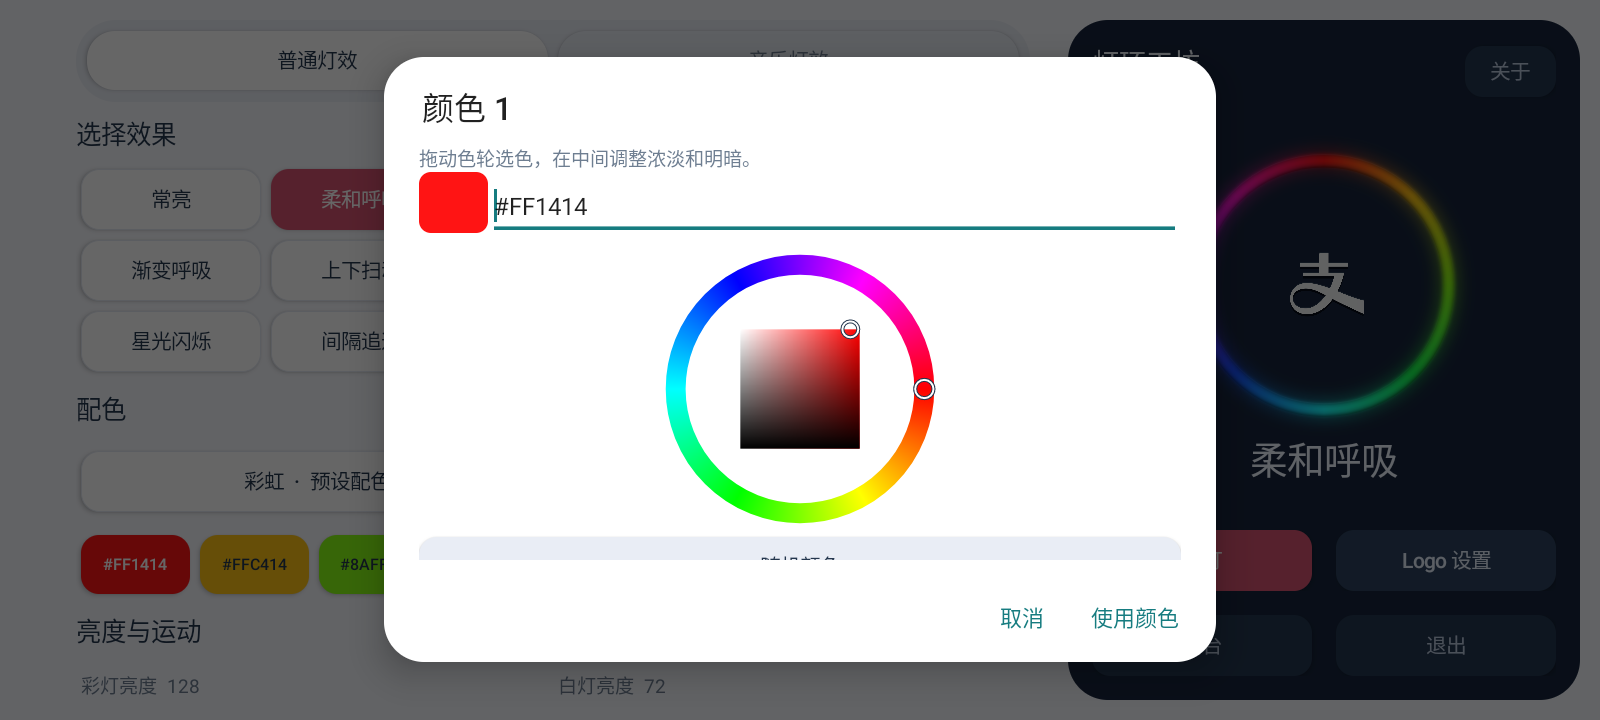
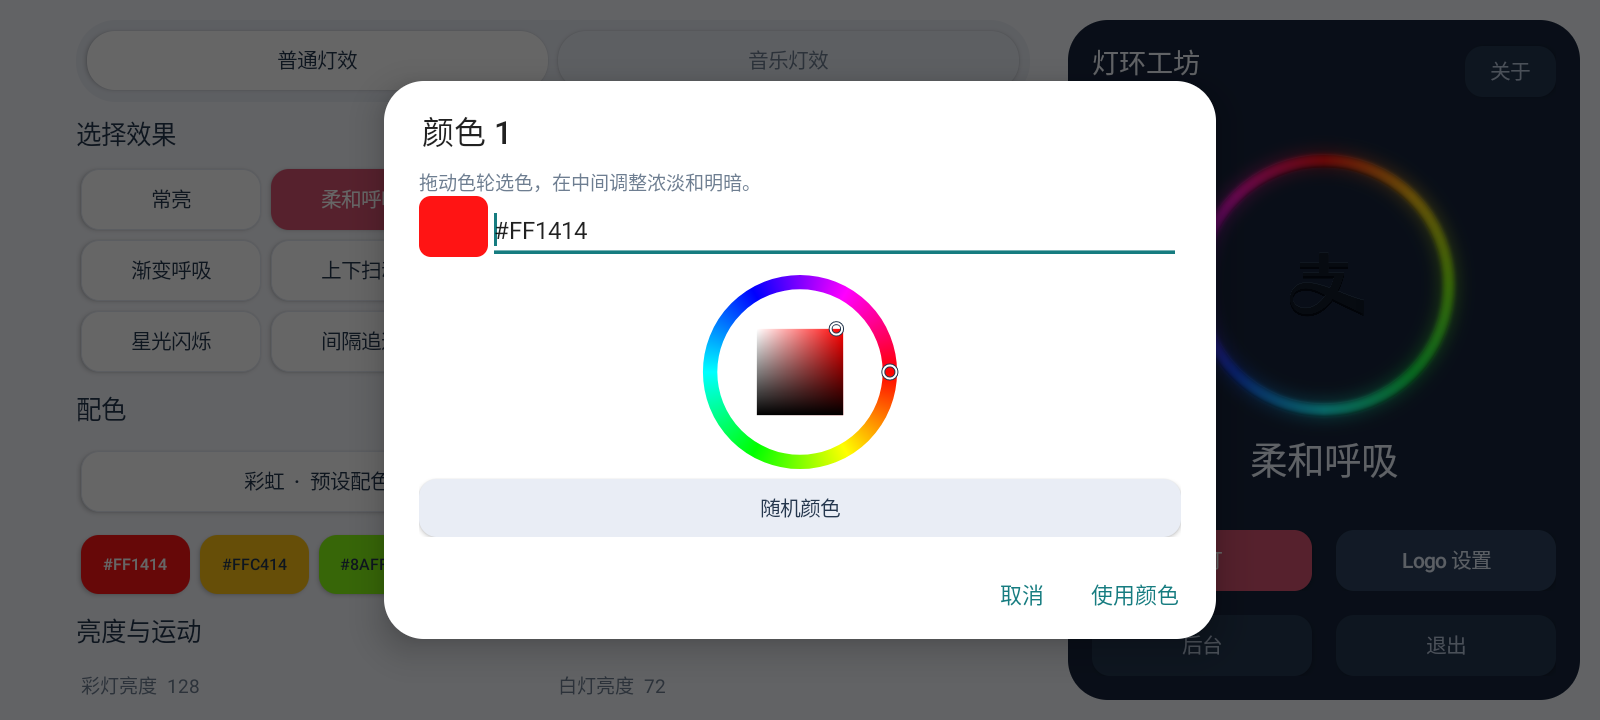
Fit random color control inside the picker dialog

Changed region(s): [[0.2188, 0.0611, 0.7812, 0.7333], [0.2188, 0.7944, 0.7812, 0.9167], [0.8125, 0.3361, 0.875, 0.4583]]

diff --git a/src/com/codex/ringlab/MainActivity.java b/src/com/codex/ringlab/MainActivity.java
@@ -67,7 +67,7 @@ public class MainActivity extends Activity {
     private void renderColorSlots(){if(colorSlots==null)return;colorSlots.removeAllViews();int[] colors=Patterns.colorStops(cfg);for(int n=0;n<colors.length;n++){final int index=n;int color=colors[n];double luma=Color.red(color)*.2126+Color.green(color)*.7152+Color.blue(color)*.0722;Button swatch=button(Patterns.hex(color),color,luma>155?INK:Color.WHITE,()->colorDialog(index));swatch.setTextSize(10);swatch.setContentDescription("颜色 "+(n+1)+"，点击选色");LinearLayout.LayoutParams layout=colors.length<4?new LinearLayout.LayoutParams(dp(105),dp(37)):cell(37);layout.setMargins(dp(3),dp(6),dp(3),dp(3));colorSlots.addView(swatch,layout);}if(colors.length<4){TextView hint=text("点色块选色",11,MUTED);hint.setGravity(Gravity.CENTER_VERTICAL);hint.setPadding(dp(8),0,0,0);colorSlots.addView(hint,new LinearLayout.LayoutParams(0,dp(48),1));}}
     private void resizeColors(int count){if(cfg.palette==13){int[] before=Patterns.parseColors(cfg.colors);if(count>before.length){int[] next=new int[count];for(int n=0;n<count;n++)next[n]=n<before.length?before[n]:Color.HSVToColor(new float[]{(float)(n*360.0/count),.9f,1});cfg.colors=Patterns.encode(next);}}cfg.colorCount=count;}
     private void colorDialog(int index){int[] stops=Patterns.colorStops(cfg);if(index>=stops.length)return;LinearLayout content=dialogContent();content.addView(text("拖动色轮选色，在中间调整浓淡和明暗。",12,MUTED));LinearLayout entry=new LinearLayout(this);View sample=new View(this);sample.setBackground(bg(stops[index],12));entry.addView(sample,new LinearLayout.LayoutParams(dp(43),dp(38)));EditText hex=new EditText(this);hex.setSingleLine(true);hex.setText(Patterns.hex(stops[index]));hex.setTextSize(15);entry.addView(hex,new LinearLayout.LayoutParams(0,dp(43),1));content.addView(entry);final ColorPickerView[] picker=new ColorPickerView[1];final boolean[] editing={false};
-        picker[0]=new ColorPickerView(this,stops[index],color->{editing[0]=true;hex.setText(Patterns.hex(color));sample.setBackground(bg(color,12));editing[0]=false;});content.addView(picker[0],new LinearLayout.LayoutParams(-1,dp(185)));
+        picker[0]=new ColorPickerView(this,stops[index],color->{editing[0]=true;hex.setText(Patterns.hex(color));sample.setBackground(bg(color,12));editing[0]=false;});content.addView(picker[0],new LinearLayout.LayoutParams(-1,Math.min(dp(150),getResources().getDisplayMetrics().heightPixels/3)));
         content.addView(button("随机颜色",LINE,INK,()->{java.util.Random random=new java.util.Random();int color=Color.rgb(random.nextInt(256),random.nextInt(256),random.nextInt(256));picker[0].setColor(color);hex.setText(Patterns.hex(color));sample.setBackground(bg(color,12));}),new LinearLayout.LayoutParams(-1,dp(36)));
         hex.addTextChangedListener(new android.text.TextWatcher(){public void beforeTextChanged(CharSequence c,int st,int n,int a){}public void afterTextChanged(android.text.Editable e){}public void onTextChanged(CharSequence c,int st,int before,int count){if(!editing[0])try{int color=Patterns.parseColors(c.toString())[0];picker[0].setColor(color);sample.setBackground(bg(color,12));}catch(Exception ignored){}}});
         AlertDialog dialog=new AlertDialog.Builder(this).setTitle("颜色 "+(index+1)).setView(content).setNegativeButton("取消",null).setPositiveButton("使用颜色",null).create();show(dialog);dialog.getWindow().setSoftInputMode(WindowManager.LayoutParams.SOFT_INPUT_STATE_ALWAYS_HIDDEN);dialog.getButton(-1).setOnClickListener(v->{try{int[] chosen=Patterns.parseColors(hex.getText().toString());if(chosen.length!=1)throw new IllegalArgumentException("这里输入一个颜色");int[] edited=cfg.palette==13?Patterns.parseColors(cfg.colors):stops;edited[index]=chosen[0];cfg.colors=Patterns.encode(edited);cfg.palette=13;cfg.colorCount=stops.length;dialog.dismiss();renderControls();changed();}catch(Exception e){hex.setError(e.getMessage());}});}
